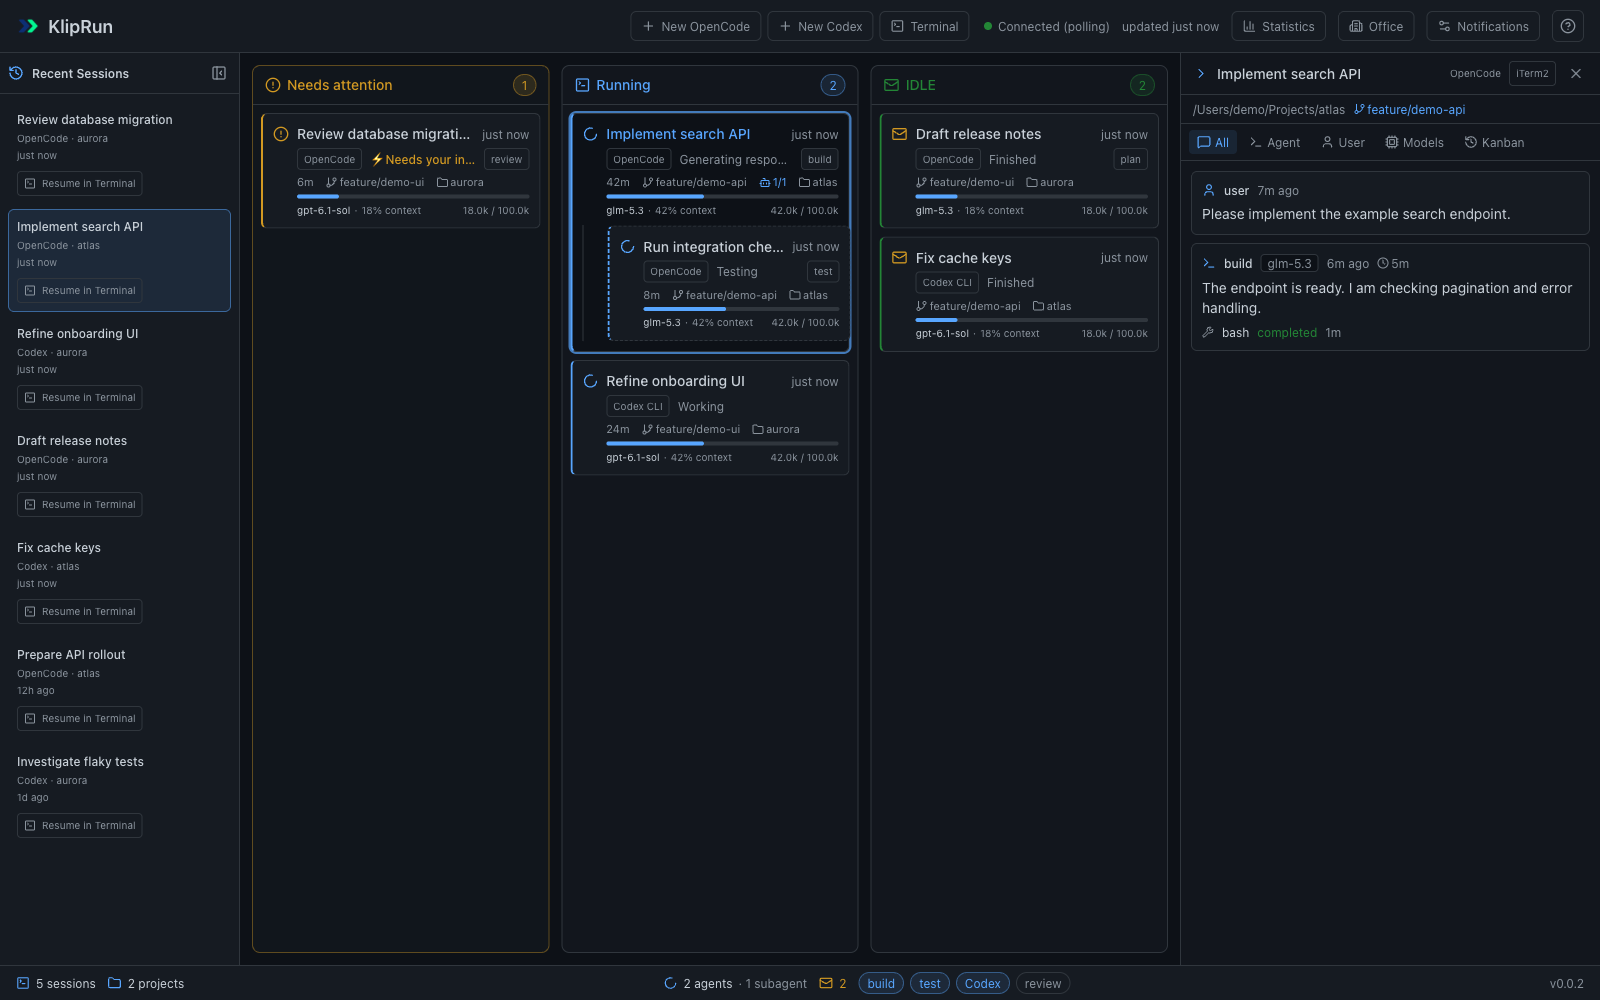
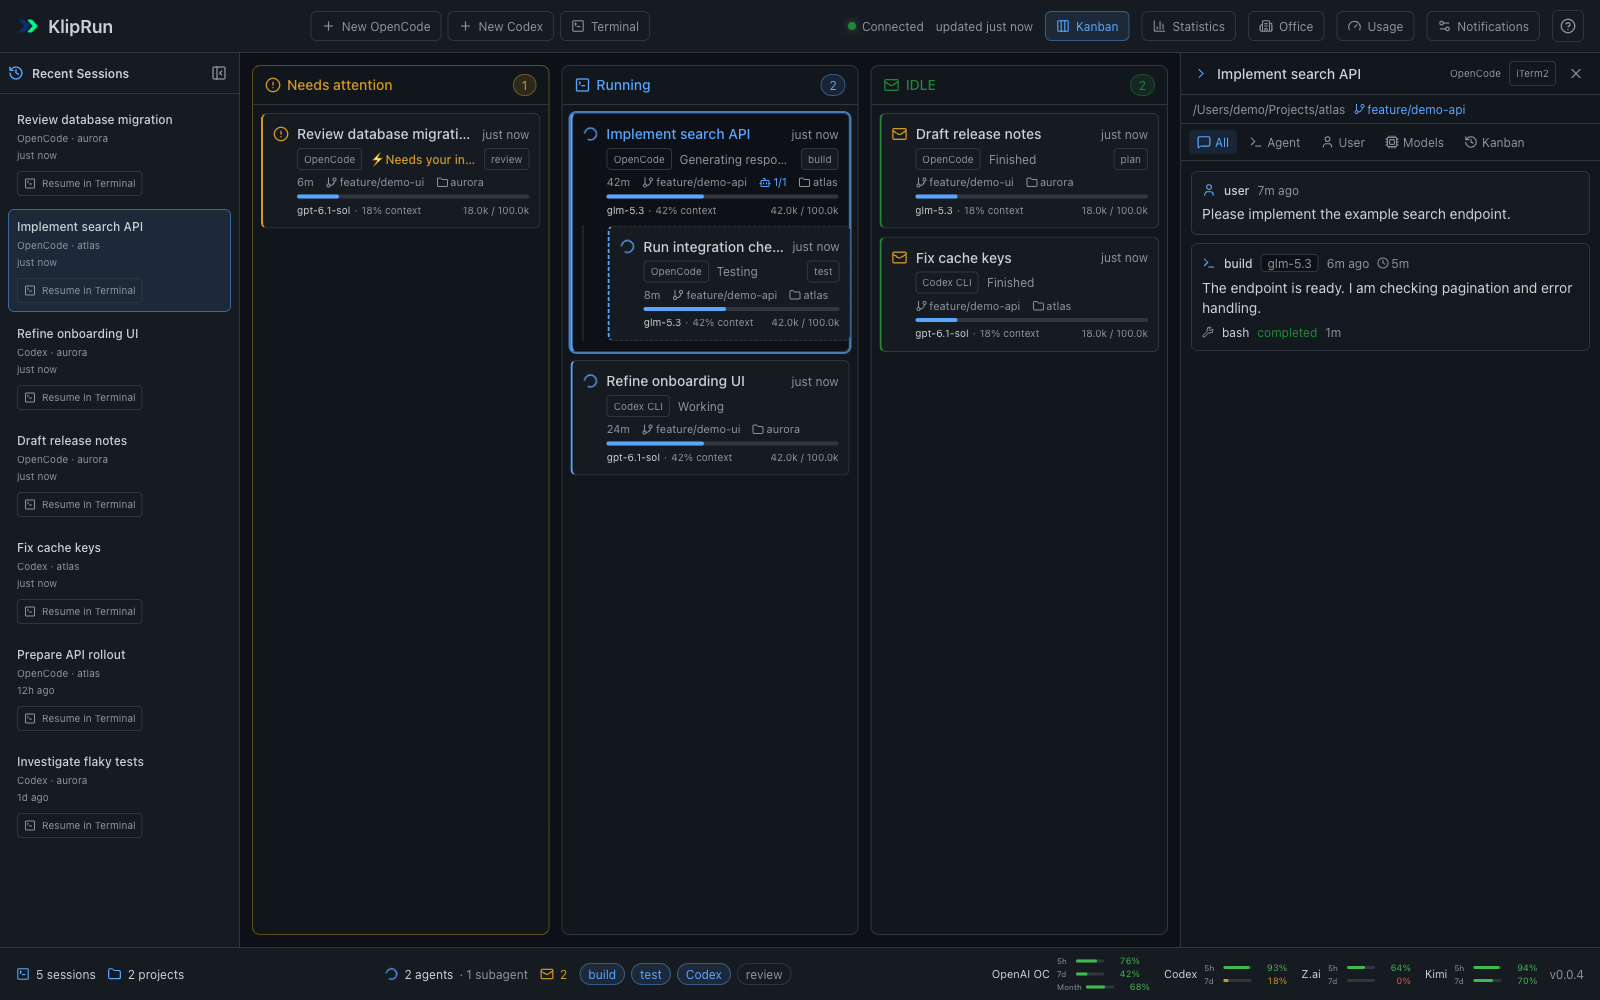
docs/refresh-screenshots-0.0.4: Обновить демонстрационные скриншоты

diff --git a/docs/screenshots/preview.ts b/docs/screenshots/preview.ts
@@ -1,0 +1,32 @@
+import { join } from "node:path";
+import { fileURLToPath } from "node:url";
+import { buildDashboard, buildSessionDetail, rankSessions } from "../../engine/src/server/usage/aggregate.ts";
+import { parseStatsFilters } from "../../engine/src/server/usage/time.ts";
+const root = fileURLToPath(new URL("../../", import.meta.url));
+const fixture = await Bun.file(join(root, "docs/screenshots/mock-api.json")).json();
+const build = join(root, "engine/src/client/dist");
+const requests: string[] = [];
+const clock = `<script>const OriginalDate = Date; window.Date = class extends OriginalDate { constructor(...args) { super(...(args.length ? args : [${fixture.board.generated_at}])); } static now() { return ${fixture.board.generated_at}; } }; window.webkit = { messageHandlers: { desktopAction: {postMessage(){}}, sessionSelected: {postMessage(){}} } };</script>`;
+const server = Bun.serve({ hostname: "127.0.0.1", port: 18796, idleTimeout: 0, async fetch(request) {
+  const url = new URL(request.url), path = url.pathname;
+  if (path === "/__preview/requests") return Response.json(requests);
+  if (path.startsWith("/api/")) requests.push(path+url.search);
+  if (path === "/api/board") return Response.json(fixture.board);
+  if (path === "/api/recent-sessions") return Response.json(fixture.recent_sessions);
+  if (path === "/api/stats") return Response.json(buildDashboard(fixture.statistics_dataset, parseStatsFilters(url, fixture.board.generated_at), fixture.board.generated_at));
+  if (path === "/api/stats/sessions") return Response.json(rankSessions(fixture.statistics_dataset, parseStatsFilters(url, fixture.board.generated_at), url.searchParams.get("sort") ?? "tokens", Number(url.searchParams.get("page") ?? 1), 50));
+  if (path.startsWith("/api/stats/session/")) return Response.json(buildSessionDetail(fixture.statistics_dataset, parseStatsFilters(url, fixture.board.generated_at), decodeURIComponent(path.split("/").at(-1)!)));
+  if (path === "/api/stats/office-usage") return Response.json(fixture.office_usage);
+  if (path.startsWith("/api/quota/")) return Response.json(fixture.quotas[path.split("/").at(-1)!]);
+  if (path.startsWith("/api/session/")) return Response.json(fixture.details);
+  if (path === "/api/stream") return new Response(new ReadableStream({ start(c) { c.enqueue(new TextEncoder().encode(": preview\n\n")); } }), {headers:{"Content-Type":"text/event-stream"}});
+  if (path.startsWith("/__demo/")) {
+    const name = path.slice("/__demo/".length);
+    if (!["terminal-demo.html", "kanban-details.png"].includes(name)) return new Response("Not found", { status: 404 });
+    return new Response(Bun.file(join(root, "docs/screenshots", name)));
+  }
+  const file = Bun.file(join(build, path));
+  if (path !== "/" && await file.exists()) return new Response(file);
+  return new Response((await Bun.file(join(build, "index.html")).text()).replace("<head>", `<head>${clock}`), {headers:{"Content-Type":"text/html"}});
+}});
+console.log(`Fixture-only preview: ${server.url}`);

diff --git a/docs/screenshots/capture-usage.js b/docs/screenshots/capture-usage.js
@@ -1,38 +1,11 @@
-// Playwright callback for the fixture-only preview described in README.md.
-// Presentation overrides illustrate requested providers; they do not add integrations.
+// Playwright callback for the fixture-only preview. No provider label overrides.
 async (page) => {
   await page.setViewportSize({ width: 1600, height: 1500 });
   await page.goto('http://127.0.0.1:18796/usage');
   await page.locator('.usage-provider[data-provider="kimi"] .usage-balance').waitFor();
   await page.getByText('Checking providers…', { exact: true }).waitFor({ state: 'hidden' });
-  await page.evaluate(() => {
-    const examples = {
-      codex: { label: 'OpenAI · Codex', plan: 'ChatGPT Pro', source: 'Codex', icon: 'O' },
-      zai: { label: 'Claude', plan: 'Claude Max', source: 'OpenCode', icon: 'C' },
-      openai: { label: 'OpenAI · OpenCode', plan: 'ChatGPT Pro', source: 'OpenCode', icon: 'O' },
-      kimi: { label: 'OpenCode Go', plan: 'Go subscription', source: 'OpenCode', icon: 'G' },
-    };
-    const grid = document.querySelector('.usage-provider-grid');
-    for (const [provider, example] of Object.entries(examples)) {
-      const card = grid.querySelector(`[data-provider="${provider}"]`);
-      card.querySelector('h2').textContent = example.label;
-      card.setAttribute('aria-label', example.label);
-      card.querySelector('.usage-provider-identity p').textContent = example.plan;
-      card.querySelector('.usage-monogram').textContent = example.icon;
-      card.querySelector('.usage-provider-footer span').textContent = `Via ${example.source}`;
-      card.querySelector('.usage-balance').setAttribute('aria-label', `${example.label}: synthetic remaining allowance`);
-      grid.append(card);
-    }
-    for (const row of document.querySelectorAll('.usage-reset-item')) {
-      const provider = row.querySelector('[data-provider]').dataset.provider;
-      row.querySelector('strong').textContent = examples[provider].label;
-    }
-    const nextReset = document.querySelector('.usage-next-reset + p');
-    nextReset.textContent = nextReset.textContent.replace('Z.ai', 'Claude').replace('Kimi', 'OpenCode Go');
-    document.querySelector('.usage-footnote p').textContent = 'Synthetic demo data. Provider names, plans, balances and reset times are illustrative. Claude and OpenCode Go are screenshot examples; these integrations are not currently available in the app.';
-  });
   const labels = await page.locator('.usage-provider h2').allTextContents();
-  if (labels.join('|') !== 'OpenAI · Codex|Claude|OpenAI · OpenCode|OpenCode Go') throw new Error(`Unexpected cards: ${labels}`);
-  await page.screenshot({ path: '/Users/a.voronko/Documents/github/kliprun_desktop/docs/screenshots/usage.png', fullPage: true });
+  if (labels.join('|') !== 'OpenAI · OpenCode|OpenAI · Codex|Z.ai|Kimi') throw new Error(`Unexpected cards: ${labels}`);
+  await page.screenshot({ path: 'docs/screenshots/usage.png' });
   return { labels, viewport: page.viewportSize() };
 }

diff --git a/docs/screenshots/README.md b/docs/screenshots/README.md
@@ -1,6 +1,6 @@
 # Demo screenshots
 
-These images show the real KlipRun web interface with **fictional data** from [`mock-api.json`](mock-api.json). Every session ID, task title, project path, model total, and usage metric in the fixture is an example. The screenshots were captured at a fixed date (2026-10-14) with `/api/*` requests intercepted locally; they were not taken from a user's live agent stores or terminal. `desktop-terminal.png` combines the fixture-based board capture with a synthetic terminal panel and transcript from [`terminal-demo.html`](terminal-demo.html); it does not run an agent process.
+These images show the real KlipRun web interface with **fictional data** from [`mock-api.json`](mock-api.json). Every session ID, task title, project path, model total, and usage metric in the fixture is an example. The screenshots were refreshed from version 0.0.4 on 2026-10-15, with the clock fixed to the fixture date (2026-10-14) and `/api/*` requests served locally from the fixture; they were not taken from a user's live agent stores or terminal. `desktop-terminal.png` combines the fixture-based board capture with a synthetic terminal panel and transcript from [`terminal-demo.html`](terminal-demo.html); it does not run an agent process.
 
 | File | Example shown |
 | --- | --- |
@@ -11,13 +11,15 @@ These images show the real KlipRun web interface with **fictional data** from [`
 | [`office.png`](office.png) | Work, idle, and meeting areas with synthetic coworkers |
 | [`statistics.png`](statistics.png) | Thirty days of synthetic usage, Daily token heatmap and token mix, timezone UTC |
 | [`statistics-weekly.png`](statistics-weekly.png) | Weekly token heatmap and token composition for the same period |
-| [`usage.png`](usage.png) | Synthetic subscription allowances for OpenAI via Codex, Claude, OpenAI via OpenCode, and OpenCode Go |
+| [`usage.png`](usage.png) | Synthetic subscription allowances for OpenAI via OpenCode and Codex, Z.ai, and Kimi |
 | [`shortcuts.png`](shortcuts.png) | In-app keyboard shortcut guide |
 
 The mock API payload covers `/api/board`, `/api/session/:id`, `/api/recent-sessions`, `/api/stats`, `/api/stats/sessions`, `/api/stats/office-usage`, and `/api/quota/:provider` (the `quotas` map). When updating screenshots, serve the built `engine/src/client/dist` without a live engine, intercept those routes with the fixture, and verify that names and paths still refer only to the demo data before committing the images. The desktop terminal composition uses only the existing fixture screenshot and the static synthetic content in `terminal-demo.html`.
 
-`recent-sessions.png` captures the 0.0.2 web UI at 1600 × 1000 with the clock set to the fixture's `board.generated_at`. The `recent_sessions` fixture includes five board sessions and two historical sessions absent from the board. A stub desktop bridge displays the native action buttons without launching agents. The selected session is `ses_demo_search`, matching the fixture's `details` payload.
+`recent-sessions.png` captures the 0.0.4 web UI at 1600 × 1000 with the clock set to the fixture's `board.generated_at`. The `recent_sessions` fixture includes five board sessions and two historical sessions absent from the board. A stub desktop bridge displays the native action buttons without launching agents. The selected session is `ses_demo_search`, matching the fixture's `details` payload.
 
-`usage.png` captures the 0.0.3 Usage tab at 1600 × 1500 with the clock fixed to `board.generated_at` and a stub desktop bridge. All four `/api/quota/:provider` responses come from the fixture's `quotas` map; the example includes healthy, low, and exhausted balances. No provider credentials, live quota APIs, or real user data were used for this screenshot. [`capture-usage.js`](capture-usage.js) is a Playwright callback for a fixture-only preview at `http://127.0.0.1:18796`; it reorders the cards and applies screenshot-only labels: Z.ai becomes Claude, and Kimi becomes OpenCode Go. All balances still come from the fixture. These two providers are illustrative mockups, not currently supported integrations; the screenshot also states this explicitly.
+`usage.png` captures the 0.0.4 Usage tab at 1600 × 1500 with the clock fixed to `board.generated_at` and a stub desktop bridge. All four `/api/quota/:provider` responses come from the fixture's `quotas` map; the example includes healthy, low, and exhausted balances. Provider names match the actual supported integrations. No provider credentials, live quota APIs, or real user data were used. [`capture-usage.js`](capture-usage.js) is a Playwright callback for this view.
 
-The 0.0.3 Statistics screenshots use `statistics_dataset`, a fictional 60-day event and observation history in `mock-api.json`, aggregated by the production `buildDashboard` and `rankSessions` functions. The stored `stats` and `stats_sessions` payloads are its last-30-days UTC view. Interactive checks apply real filters to this fixture dataset; dates, token components, call counts, and heatmap totals are derived from the same records. The clock stays fixed to `board.generated_at`.
+Build the client with `cd engine/src/client && bun run build`, then run `bun docs/screenshots/preview.ts` from the repository root. This fixture-only server binds to `127.0.0.1:18796`, serves the built UI, stubs the desktop bridge and clock, and computes Statistics using the production aggregators. The synthetic terminal composition is available at `/__demo/terminal-demo.html`. No live engine is needed.
+
+The 0.0.4 Statistics screenshots use `statistics_dataset`, a fictional 60-day event and observation history in `mock-api.json`, aggregated by the production `buildDashboard` and `rankSessions` functions. The stored `stats` and `stats_sessions` payloads are its last-30-days UTC view. Interactive checks apply real filters to this fixture dataset; dates, token components, call counts, and heatmap totals are derived from the same records. The clock stays fixed to `board.generated_at`.

diff --git a/CHANGELOG.md b/CHANGELOG.md
@@ -4,6 +4,10 @@ Notable changes to KlipRun Desktop are recorded here. Versions use [Semantic Ver
 
 ## [Unreleased]
 
+### Documentation
+
+- Refresh all nine demo screenshots for 0.0.4, show supported Usage providers, and include a fixture-only preview server.
+
 ## [0.0.4] - 2026-10-15
 
 ### Added
